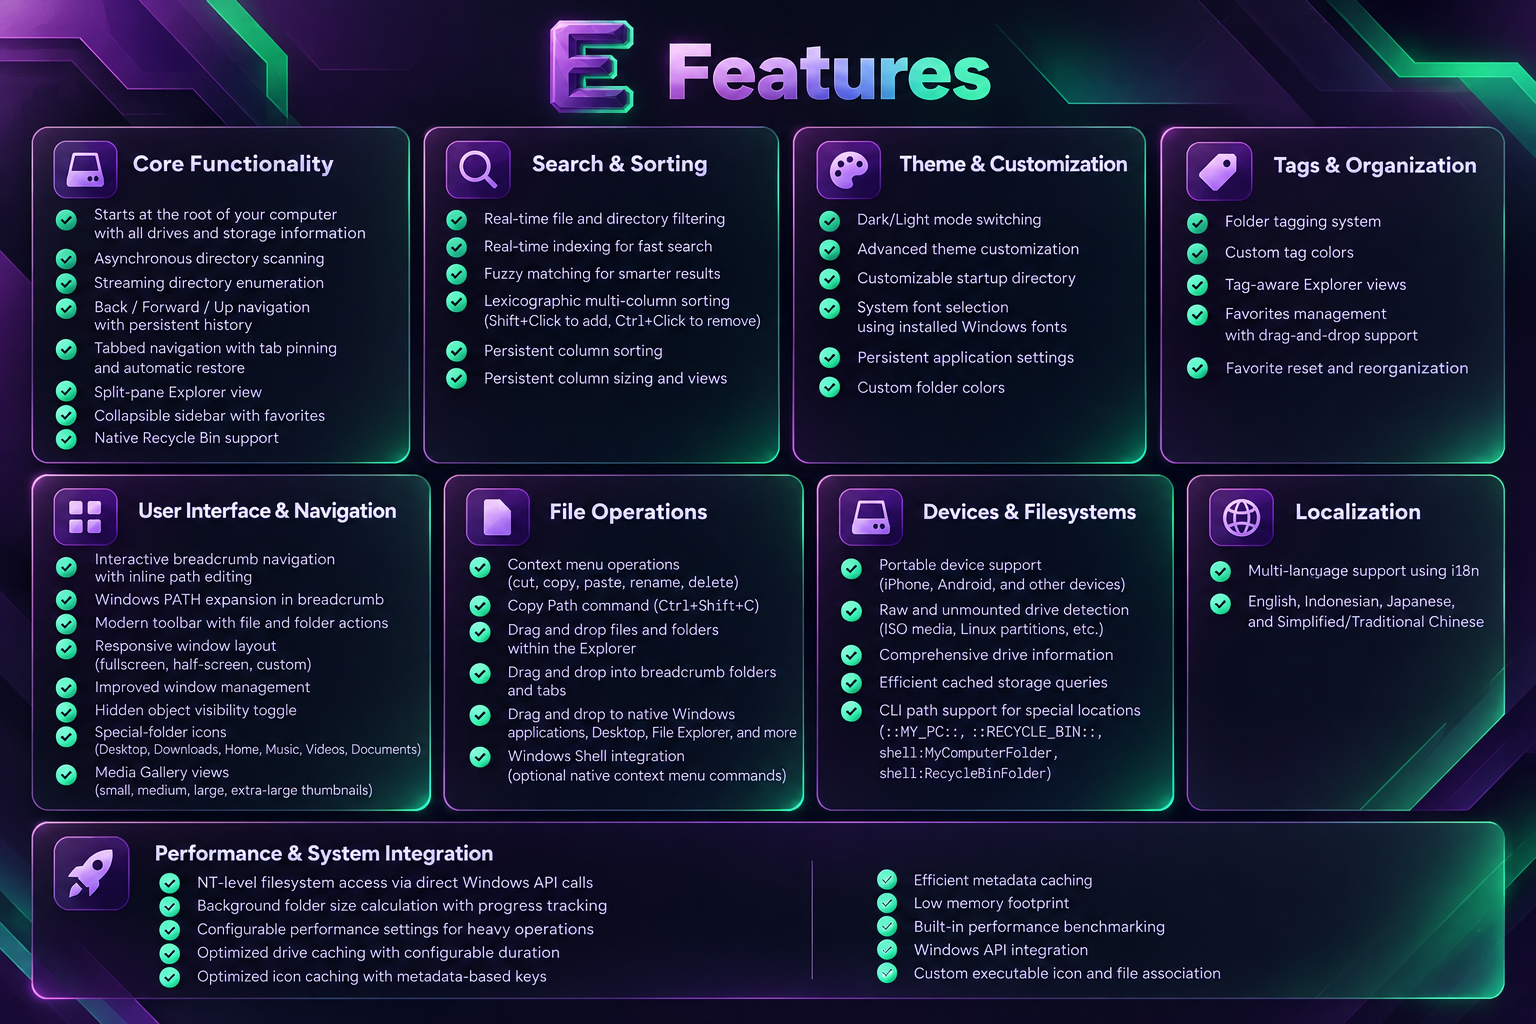
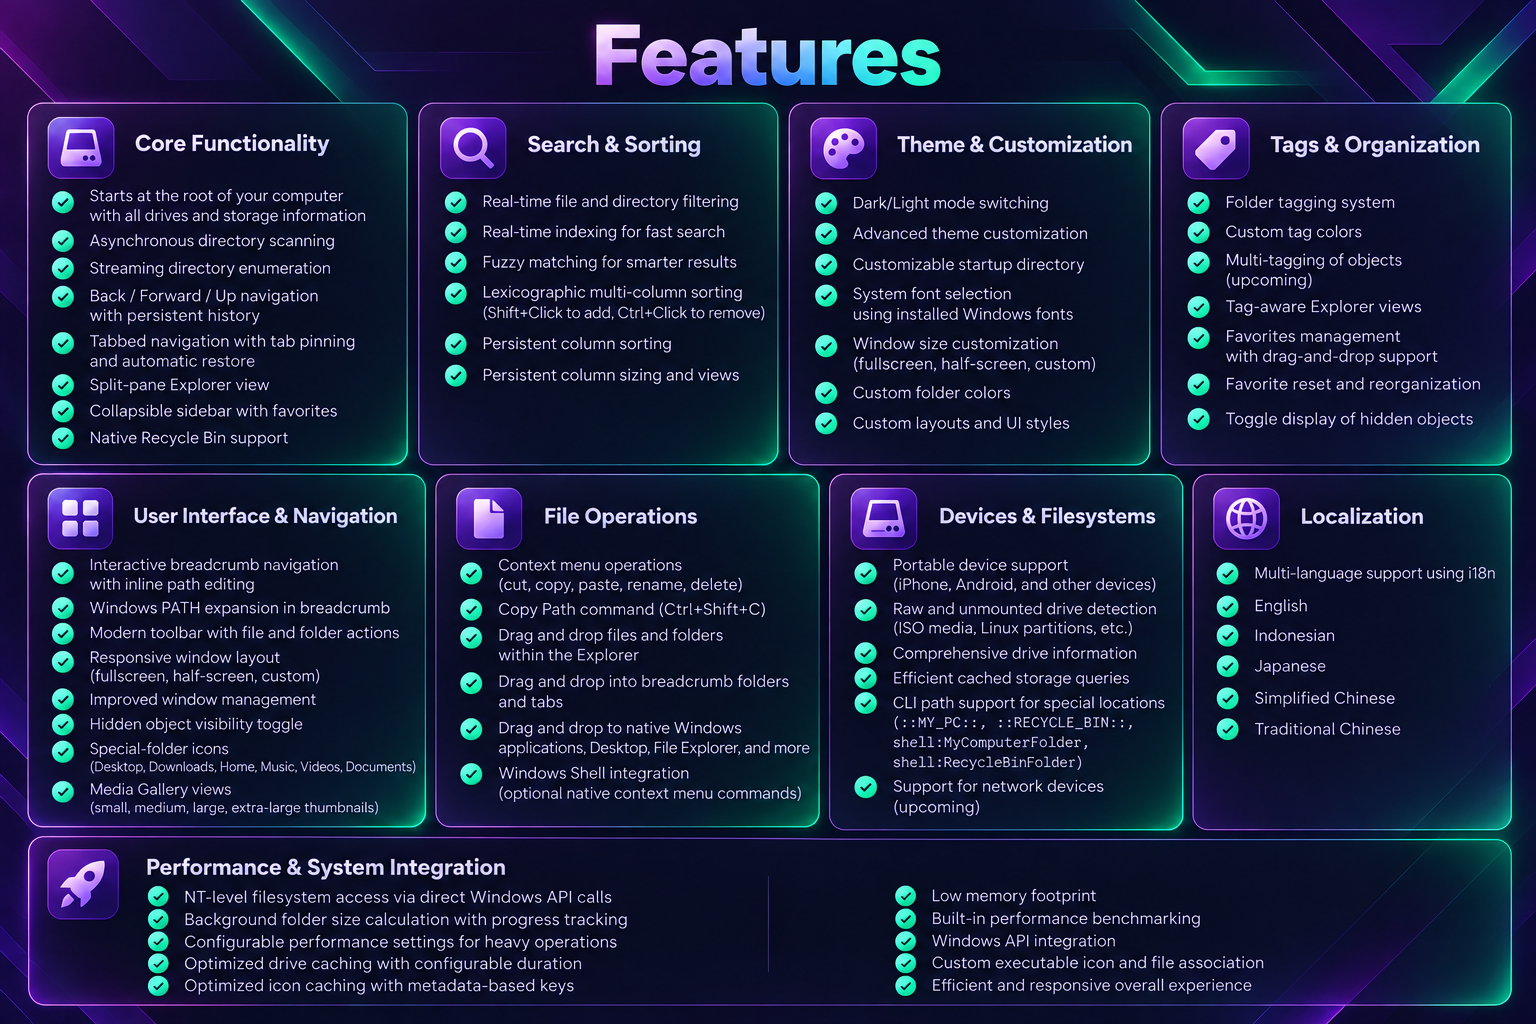
update readme with generated images to help with legibility

diff --git a/README.md b/README.md
@@ -85,66 +85,9 @@
   ⚙ <b>NT-level filesystem access</b> — Maximum performance, minimal abstraction
 </p>
 
-<h1 align="center"> Comparison </h1>
-<div align="center">
-
-<table>
-  <thead>
-    <tr>
-      <th>Feature</th>
-      <th><b>EdenExplorer</b></th>
-      <th>FilePilot</th>
-      <th>Windows Explorer</th>
-      <th>Files.Community</th>
-    </tr>
-  </thead>
-  <tbody>
-    <tr>
-      <td><b>Pricing</b></td>
-      <td><b>✅ Free</b></td>
-      <td>❌ Paid</td>
-      <td>❌ Your Data</td>
-      <td>✅ Free</td>
-    </tr>
-    <tr>
-      <td><b>Performance</b></td>
-      <td><b>⚡ Fast</b></td>
-      <td>⚡ Fast</td>
-      <td>🐢 Slow</td>
-      <td>🐢 Slow</td>
-    </tr>
-    <tr>
-      <td><b>Open Source</b></td>
-      <td><b>✅ Yes</b></td>
-      <td>❌ No</td>
-      <td>❌ No</td>
-      <td>✅ Yes</td>
-    </tr>
-    <tr>
-      <td><b>NT-level access</b></td>
-      <td><b>✅ Yes</b></td>
-      <td>✅ Yes</td>
-      <td>❌ No</td>
-      <td>❌ No</td>
-    </tr>
-    <tr>
-      <td><b>Resource Usage</b></td>
-      <td><b>🪶 Low</b></td>
-      <td>🪶 Low</td>
-      <td>🧱 Heavy</td>
-      <td>🧱 Medium</td>
-    </tr>
-    <tr>
-      <td><b>Core Technology</b></td>
-      <td><b>🦀 Rust</b></td>
-      <td>🦀 Rust</td>
-      <td>⚙ C++*</td>
-      <td>💙 C# / WinUI</td>
-    </tr>
-  </tbody>
-</table>
-
-</div>
+<p align="center">
+  <img src="src/appcomparison.png" width="1536" />
+</p>
 
 <h2 align="center">🚀 Getting Started</h2>
 <h3 align="center">Download</h3>
@@ -159,116 +102,8 @@
 </p>
 
 <p align="center">
-  <img src="src/featureslist.png" width="600" />
+  <img src="src/featureslist.png" width="1536" />
 </p>
-
-<div style="display: none;">
-<h2 align="center">✨ Features</h2>
-
-<table align="center" style="border: none; border-collapse: collapse;">
-<tr>
-<td width="50%" valign="top" style="border: none; padding: 12px;">
-
-<h3>Core Functionality</h3>
-<ul>
-  <li><b>Lightning-fast GUI</b> that starts at the <b>root of your computer</b>, displaying all drives with comprehensive storage information</li>
-  <li><b>Asynchronous directory scanning</b> for ultra-fast file listing without blocking the UI</li>
-  <li><b>Streaming directory enumeration</b> for responsive browsing of large directories</li>
-  <li><b>Intuitive navigation</b> with <b>Back / Forward / Up</b> controls and persistent navigation history</li>
-  <li><b>Tabbed navigation</b> with independent loading states, tab pinning, and automatic tab restoration</li>
-  <li><b>Split-pane Explorer view</b> for browsing multiple locations side-by-side</li>
-  <li><b>Collapsible sidebar</b> with quick access to common folders and customizable favorites</li>
-  <li><b>Native Recycle Bin support</b> with dedicated Explorer integration</li>
-</ul>
-
-<h3>Search, Filtering & Sorting</h3>
-<ul>
-  <li><b>Real-time file and directory filtering</b> as you type</li>
-  <li><b>Real-time file indexing</b> for fast search and filtering</li>
-  <li><b>Fuzzy matching</b> for intelligent search results</li>
-  <li><b>Lexicographic multi-column sorting</b> with Shift+Click to add sort columns and Ctrl+Click to remove them</li>
-  <li><b>Persistent column sorting</b> across sessions</li>
-  <li><b>Persistent column sizing and view settings</b> across sessions</li>
-</ul>
-
-<h3>Theme & Customization</h3>
-<ul>
-  <li><b>Dark/Light mode switching</b> with instant toggle</li>
-  <li><b>Advanced theme customization</b> with full color palette editing</li>
-  <li><b>Customizable startup directory</b></li>
-  <li><b>System font selection</b> using installed Windows fonts</li>
-  <li><b>Persistent application settings</b> across restarts</li>
-  <li><b>Custom folder colors</b> for visual organization</li>
-</ul>
-
-<h3>Tags & Organization</h3>
-<ul>
-  <li><b>Folder tagging system</b> for organizing files and directories</li>
-  <li><b>Custom tag colors</b> with Explorer visualization</li>
-  <li><b>Tag-aware Explorer views</b> that visually identify tagged objects</li>
-  <li><b>Favorites management</b> with drag-and-drop reorganization</li>
-  <li><b>Favorite reset and reorganization</b> capabilities</li>
-</ul>
-
-</td>
-
-
-
-<td width="50%" valign="top" style="border: none; padding: 12px;">
-
-<h3>User Interface & Navigation</h3>
-<ul>
-  <li><b>Interactive breadcrumb navigation</b> with inline path editing</li>
-  <li><b>Windows PATH expansion</b> when entering paths through the breadcrumb</li>
-  <li><b>Modern toolbar</b> with file and folder actions</li>
-  <li><b>Responsive window layout</b> with fullscreen, half-screen, and custom sizing modes</li>
-  <li><b>Improved window management</b> with proper maximization bounds and minimum size constraints</li>
-  <li><b>Hidden object visibility toggle</b> for showing or hiding hidden files and directories</li>
-  <li><b>Dedicated special-folder icons</b> for Desktop, Downloads, Home, Music, Videos, and Documents</li>
-  <li><b>Media Gallery views</b> with small, medium, large, and extra-large thumbnail layouts</li>
-</ul>
-
-<h3>File Operations</h3>
-<ul>
-  <li><b>Context menu operations</b> including cut, copy, paste, rename, and delete</li>
-  <li><b>Copy Path</b> command with <b>Ctrl+Shift+C</b> keyboard shortcut</li>
-  <li><b>Drag and drop files and folders</b> within the Explorer</li>
-  <li><b>Drag and drop into breadcrumb folders</b> and directory tabs</li>
-  <li><b>Drag and drop to native Windows applications</b>, Desktop, File Explorer, and other OS objects</li>
-  <li><b>Windows Shell integration</b> with optional native Windows registry context menu commands</li>
-</ul>
-
-<h3>Devices & Filesystems</h3>
-<ul>
-  <li><b>Portable device support</b> for iPhone, Android, and other connected devices</li>
-  <li><b>Raw and unmounted drive detection</b> for ISO media, Linux partitions, and other unsupported Windows filesystems</li>
-  <li><b>Comprehensive drive information</b> with efficient cached storage queries</li>
-  <li><b>CLI path support</b> for special Windows locations including <code>::MY_PC::</code>, <code>::RECYCLE_BIN::</code>, <code>shell:MyComputerFolder</code>, and <code>shell:RecycleBinFolder</code></li>
-</ul>
-
-<h3>Performance & System Integration</h3>
-<ul>
-  <li><b>NT-level filesystem access</b> via direct Windows API calls</li>
-  <li><b>Background folder size calculation</b> with progress tracking and optional performance control</li>
-  <li><b>Optimized drive caching</b> with configurable cache duration</li>
-  <li><b>Optimized icon caching</b> using metadata-based cache keys and background loading</li>
-  <li><b>Efficient metadata caching</b> to minimize repeated filesystem operations</li>
-  <li><b>Low memory footprint</b> designed for responsive long-running use</li>
-  <li><b>Built-in performance benchmarking</b> with real-time measurements and comparison tools</li>
-  <li><b>Windows API integration</b> for native operating system functionality</li>
-  <li><b>Custom executable icon and file association</b></li>
-</ul>
-
-<h3>Localization</h3>
-<ul>
-  <li><b>Multi-language support</b> using i18n</li>
-  <li>English, Indonesian, Japanese, and Simplified/Traditional Chinese language support</li>
-</ul>
-
-</td>
-</tr>
-</table>
-</div>
 
 ## 🗺 Roadmap
 

diff --git a/FEATURES.md b/FEATURES.md
@@ -1,0 +1,105 @@
+<h2 align="center">✨ Features</h2>
+
+<table align="center" style="border: none; border-collapse: collapse;">
+<tr>
+<td width="50%" valign="top" style="border: none; padding: 12px;">
+
+<h3>Core Functionality</h3>
+<ul>
+  <li><b>Lightning-fast GUI</b> that starts at the <b>root of your computer</b>, displaying all drives with comprehensive storage information</li>
+  <li><b>Asynchronous directory scanning</b> for ultra-fast file listing without blocking the UI</li>
+  <li><b>Streaming directory enumeration</b> for responsive browsing of large directories</li>
+  <li><b>Intuitive navigation</b> with <b>Back / Forward / Up</b> controls and persistent navigation history</li>
+  <li><b>Tabbed navigation</b> with independent loading states, tab pinning, and automatic tab restoration</li>
+  <li><b>Split-pane Explorer view</b> for browsing multiple locations side-by-side</li>
+  <li><b>Collapsible sidebar</b> with quick access to common folders and customizable favorites</li>
+  <li><b>Native Recycle Bin support</b> with dedicated Explorer integration</li>
+</ul>
+
+<h3>Search, Filtering & Sorting</h3>
+<ul>
+  <li><b>Real-time file and directory filtering</b> as you type</li>
+  <li><b>Real-time file indexing</b> for fast search and filtering</li>
+  <li><b>Fuzzy matching</b> for intelligent search results</li>
+  <li><b>Lexicographic multi-column sorting</b> with Shift+Click to add sort columns and Ctrl+Click to remove them</li>
+  <li><b>Persistent column sorting</b> across sessions</li>
+  <li><b>Persistent column sizing and view settings</b> across sessions</li>
+</ul>
+
+<h3>Theme & Customization</h3>
+<ul>
+  <li><b>Dark/Light mode switching</b> with instant toggle</li>
+  <li><b>Advanced theme customization</b> with full color palette editing</li>
+  <li><b>Customizable startup directory</b></li>
+  <li><b>System font selection</b> using installed Windows fonts</li>
+  <li><b>Persistent application settings</b> across restarts</li>
+  <li><b>Custom folder colors</b> for visual organization</li>
+</ul>
+
+<h3>Tags & Organization</h3>
+<ul>
+  <li><b>Folder tagging system</b> for organizing files and directories</li>
+  <li><b>Custom tag colors</b> with Explorer visualization</li>
+  <li><b>Tag-aware Explorer views</b> that visually identify tagged objects</li>
+  <li><b>Favorites management</b> with drag-and-drop reorganization</li>
+  <li><b>Favorite reset and reorganization</b> capabilities</li>
+</ul>
+
+</td>
+
+
+
+<td width="50%" valign="top" style="border: none; padding: 12px;">
+
+<h3>User Interface & Navigation</h3>
+<ul>
+  <li><b>Interactive breadcrumb navigation</b> with inline path editing</li>
+  <li><b>Windows PATH expansion</b> when entering paths through the breadcrumb</li>
+  <li><b>Modern toolbar</b> with file and folder actions</li>
+  <li><b>Responsive window layout</b> with fullscreen, half-screen, and custom sizing modes</li>
+  <li><b>Improved window management</b> with proper maximization bounds and minimum size constraints</li>
+  <li><b>Hidden object visibility toggle</b> for showing or hiding hidden files and directories</li>
+  <li><b>Dedicated special-folder icons</b> for Desktop, Downloads, Home, Music, Videos, and Documents</li>
+  <li><b>Media Gallery views</b> with small, medium, large, and extra-large thumbnail layouts</li>
+</ul>
+
+<h3>File Operations</h3>
+<ul>
+  <li><b>Context menu operations</b> including cut, copy, paste, rename, and delete</li>
+  <li><b>Copy Path</b> command with <b>Ctrl+Shift+C</b> keyboard shortcut</li>
+  <li><b>Drag and drop files and folders</b> within the Explorer</li>
+  <li><b>Drag and drop into breadcrumb folders</b> and directory tabs</li>
+  <li><b>Drag and drop to native Windows applications</b>, Desktop, File Explorer, and other OS objects</li>
+  <li><b>Windows Shell integration</b> with optional native Windows registry context menu commands</li>
+</ul>
+
+<h3>Devices & Filesystems</h3>
+<ul>
+  <li><b>Portable device support</b> for iPhone, Android, and other connected devices</li>
+  <li><b>Raw and unmounted drive detection</b> for ISO media, Linux partitions, and other unsupported Windows filesystems</li>
+  <li><b>Comprehensive drive information</b> with efficient cached storage queries</li>
+  <li><b>CLI path support</b> for special Windows locations including <code>::MY_PC::</code>, <code>::RECYCLE_BIN::</code>, <code>shell:MyComputerFolder</code>, and <code>shell:RecycleBinFolder</code></li>
+</ul>
+
+<h3>Performance & System Integration</h3>
+<ul>
+  <li><b>NT-level filesystem access</b> via direct Windows API calls</li>
+  <li><b>Background folder size calculation</b> with progress tracking and optional performance control</li>
+  <li><b>Optimized drive caching</b> with configurable cache duration</li>
+  <li><b>Optimized icon caching</b> using metadata-based cache keys and background loading</li>
+  <li><b>Efficient metadata caching</b> to minimize repeated filesystem operations</li>
+  <li><b>Low memory footprint</b> designed for responsive long-running use</li>
+  <li><b>Built-in performance benchmarking</b> with real-time measurements and comparison tools</li>
+  <li><b>Windows API integration</b> for native operating system functionality</li>
+  <li><b>Custom executable icon and file association</b></li>
+</ul>
+
+<h3>Localization</h3>
+<ul>
+  <li><b>Multi-language support</b> using i18n</li>
+  <li>English, Indonesian, Japanese, and Simplified/Traditional Chinese language support</li>
+</ul>
+
+</td>
+</tr>
+</table>

diff --git a/APPCOMPARISONS.md b/APPCOMPARISONS.md
@@ -1,0 +1,61 @@
+
+<h1 align="center"> Comparison </h1>
+<div align="center">
+
+<table>
+  <thead>
+    <tr>
+      <th>Feature</th>
+      <th><b>EdenExplorer</b></th>
+      <th>FilePilot</th>
+      <th>Windows Explorer</th>
+      <th>Files.Community</th>
+    </tr>
+  </thead>
+  <tbody>
+    <tr>
+      <td><b>Pricing</b></td>
+      <td><b>✅ Free</b></td>
+      <td>❌ Paid</td>
+      <td>❌ Your Data</td>
+      <td>✅ Free</td>
+    </tr>
+    <tr>
+      <td><b>Performance</b></td>
+      <td><b>⚡ Fast</b></td>
+      <td>⚡ Fast</td>
+      <td>🐢 Slow</td>
+      <td>🐢 Slow</td>
+    </tr>
+    <tr>
+      <td><b>Open Source</b></td>
+      <td><b>✅ Yes</b></td>
+      <td>❌ No</td>
+      <td>❌ No</td>
+      <td>✅ Yes</td>
+    </tr>
+    <tr>
+      <td><b>NT-level access</b></td>
+      <td><b>✅ Yes</b></td>
+      <td>✅ Yes</td>
+      <td>❌ No</td>
+      <td>❌ No</td>
+    </tr>
+    <tr>
+      <td><b>Resource Usage</b></td>
+      <td><b>🪶 Low</b></td>
+      <td>🪶 Low</td>
+      <td>🧱 Heavy</td>
+      <td>🧱 Medium</td>
+    </tr>
+    <tr>
+      <td><b>Core Technology</b></td>
+      <td><b>🦀 Rust</b></td>
+      <td>🦀 Rust</td>
+      <td>⚙ C++*</td>
+      <td>💙 C# / WinUI</td>
+    </tr>
+  </tbody>
+</table>
+
+</div>
